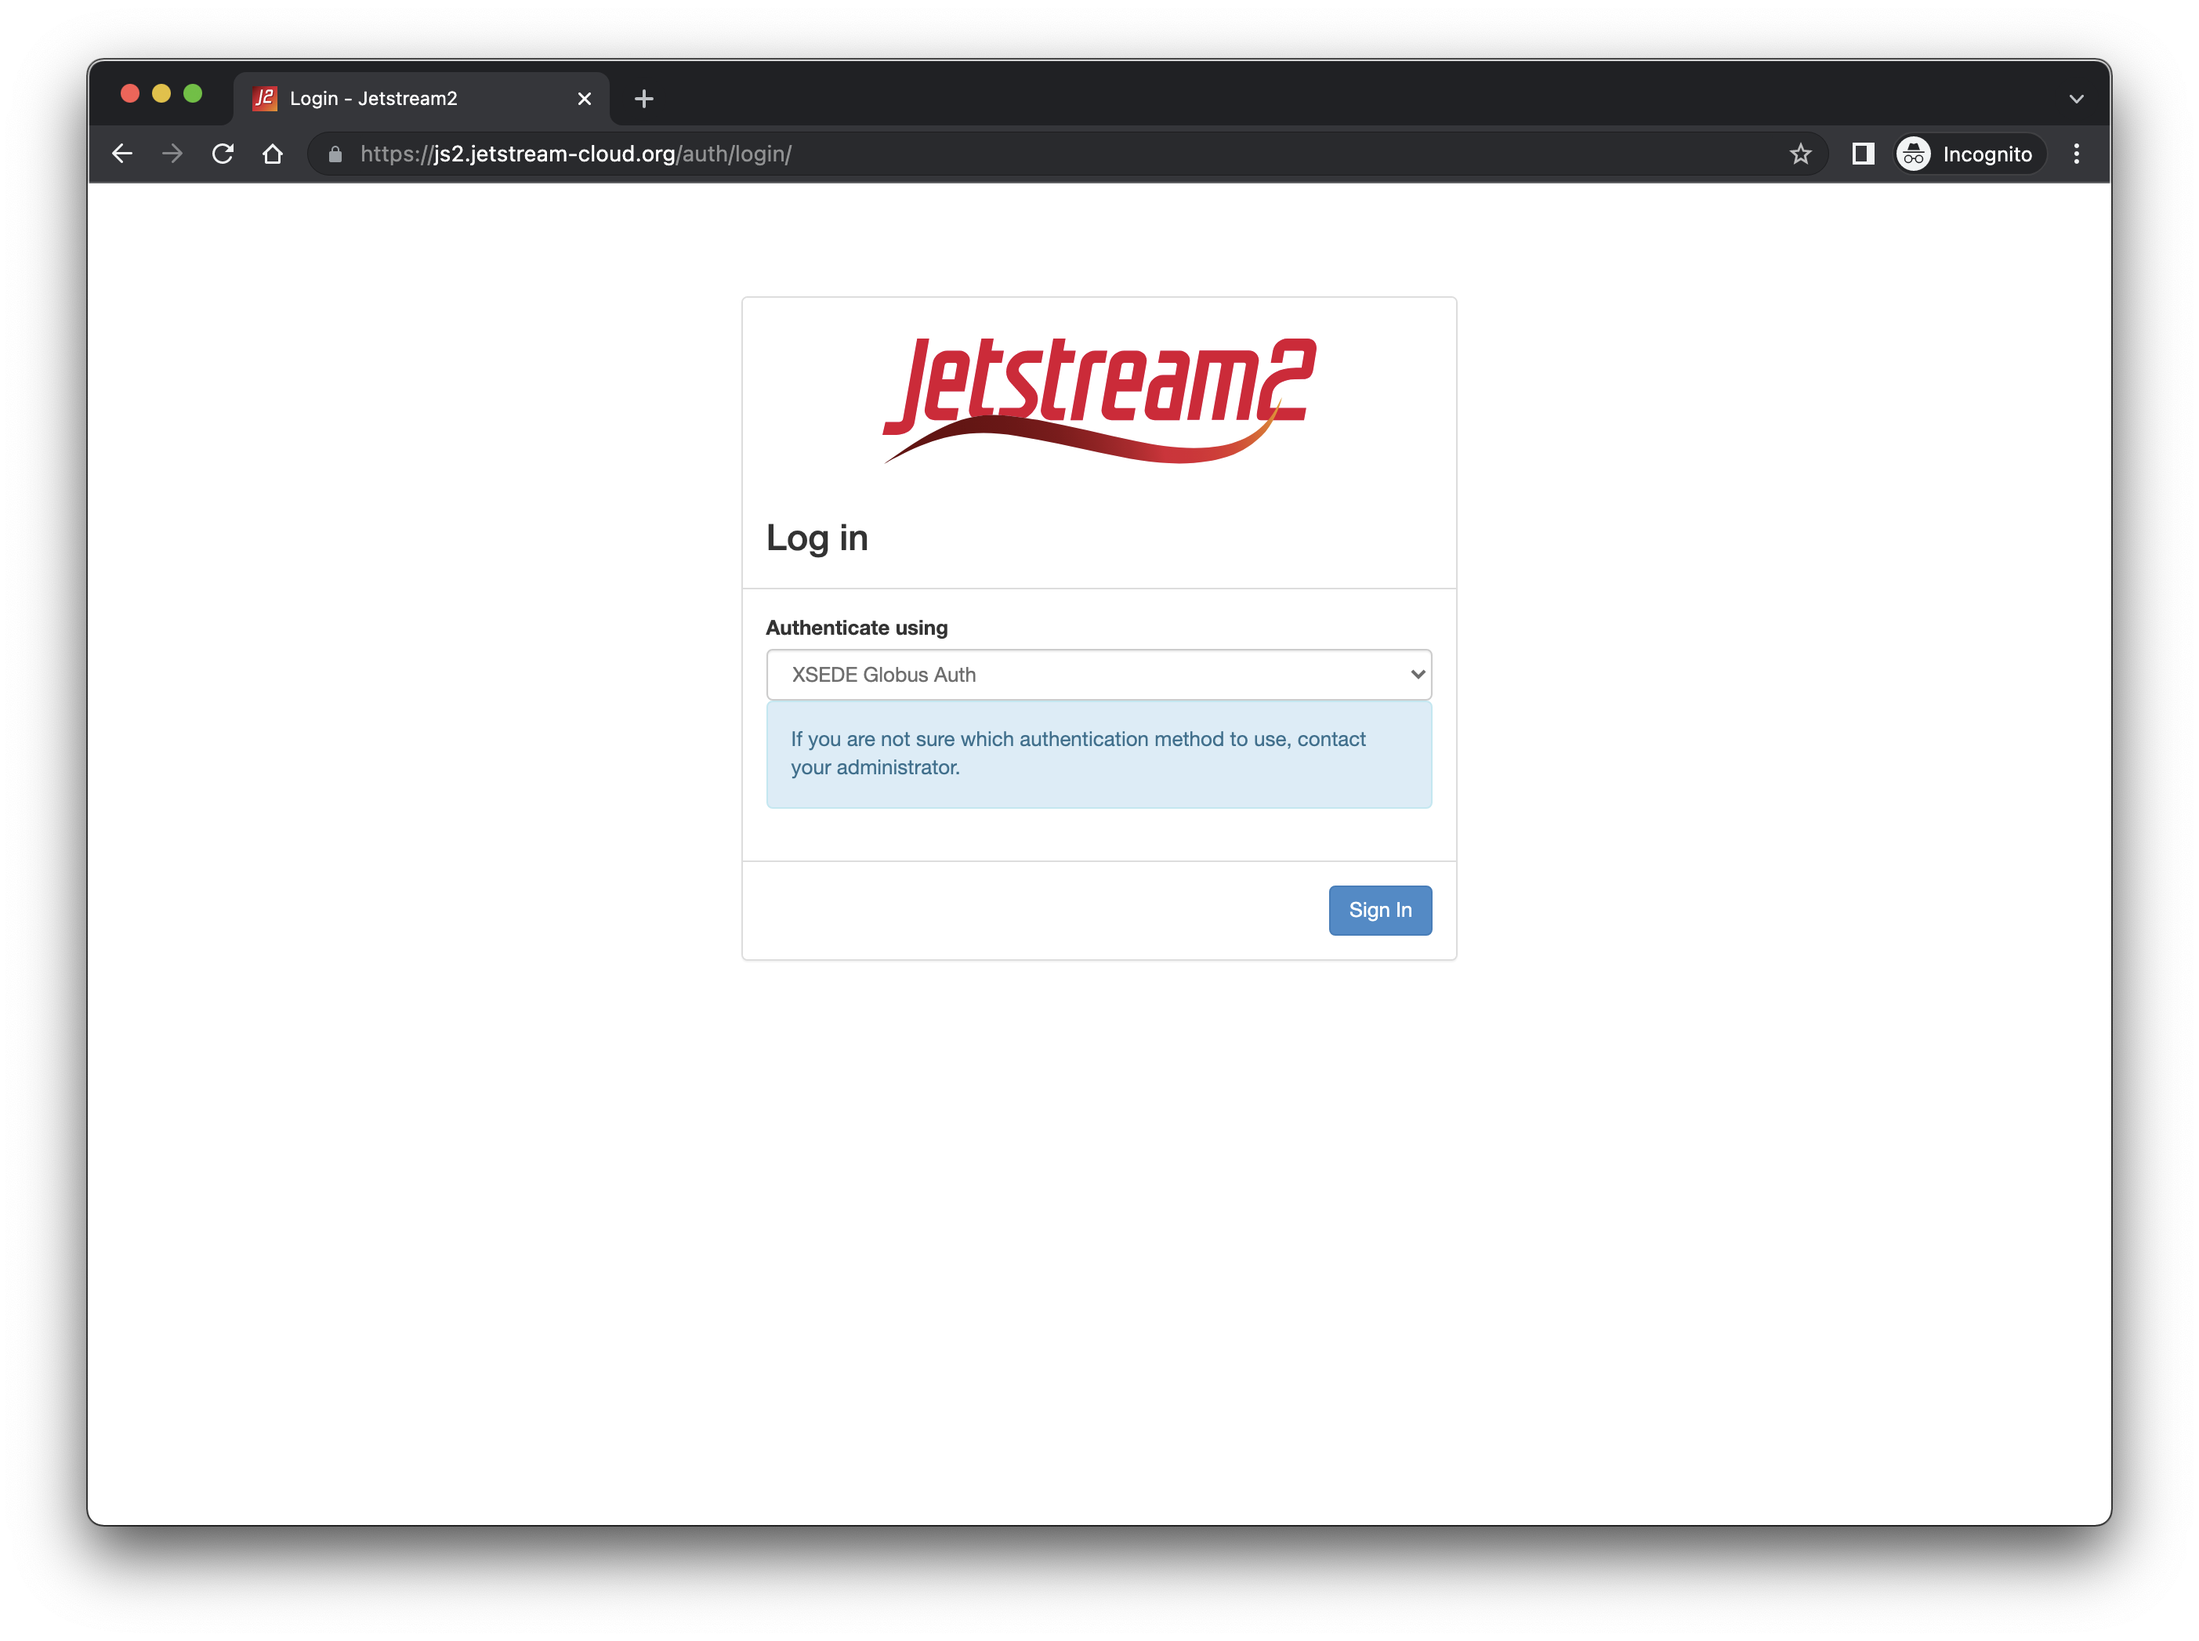
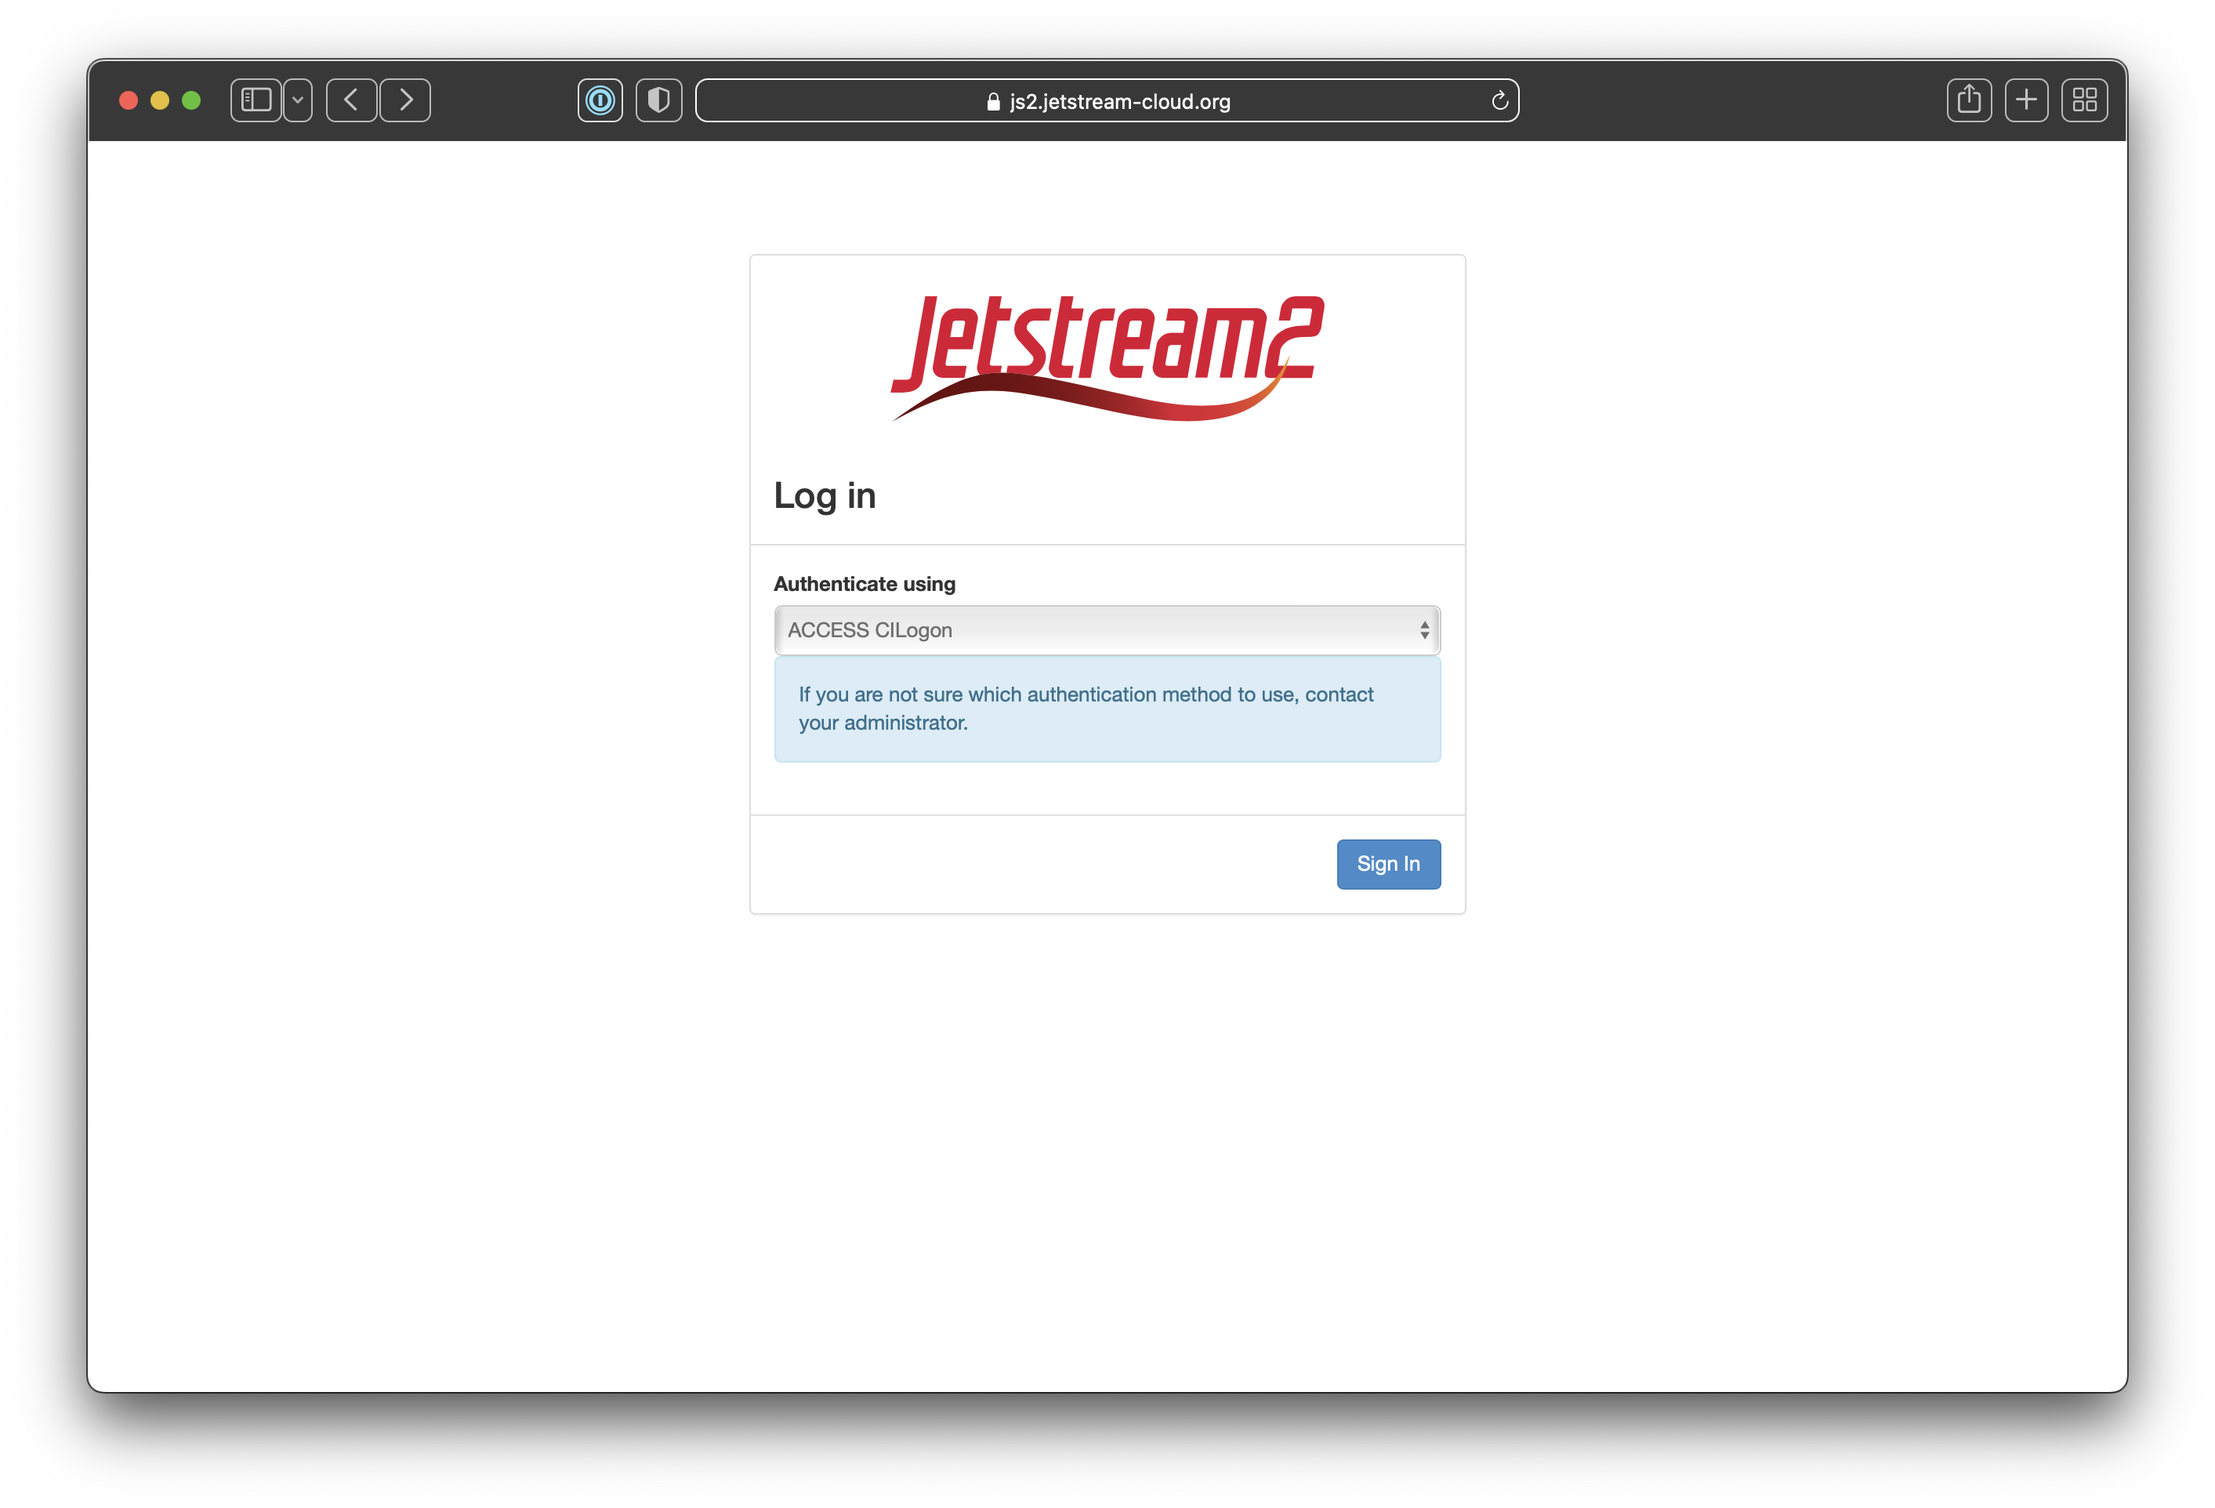
Updating Horizon login for ACCESS

diff --git a/docs/ui/horizon/intro.md b/docs/ui/horizon/intro.md
@@ -13,38 +13,44 @@ That said, there are times you may need the more complete features of Horizon in
 1. **Navigate**
 
 * Navigate to [https://js2.jetstream-cloud.org](https://js2.jetstream-cloud.org)</br>
-Make sure it says "XSEDE Globus Auth" in the Authenticate Using box.
+Make sure it says "ACCESS CILogin" in the Authenticate Using box.
 
 </br></br></br></br></br></br></br></br></br></br></br></br>
 
 ---
 
-![](/images/JS2-Globus-Screen.png){ align=right ; width=50% }
+![](/images/JS2-CILogin-Screen.png){ align=right ; width=50% }
 
-2. **Globus Authentication**
+2. **CILogin Authentication**
 
-* The first time you log in you'll be directed to a Globus page to permit authorization.</br></br>
-If you have linked institutional, Google, Orcid, or other credentials, you'll be able to use those to authenticate.<p> We know XSEDE credentials work correctly so we will show that in our example.
+* The first time you log in you'll be directed to a CILogin page to permit authorization.</br></br>
+If you have linked institutional, Google, Orcid, or other credentials, you'll be able to use those to authenticate. <p>
+
+!!! note "Other intstitution credentials"
+
+     Please note that other CILogin credentials (i.e. for your home institution or Google) must be set up outside of this process. Instructions for that will hopefully be available from ACCESS soon. We will link them here when available.
+
+We know ACCESS credentials work correctly so we will show that in our example.
 
 </br></br></br></br></br></br></br></br></br>
 
 ---
 
-![](/images/JS2-XSEDE-Auth-Screen.png){ align=right ; width=50% }
+![](/images/JS2-CILogin-Auth-Screen.png){ align=right ; width=50% }
 
-3. **XSEDE credentials**
+3. **ACCESS credentials**
 
-* The next page should be the login screen for your credentials. We're showing the XSEDE login screen as our example.
+* The next page should be the login screen for your credentials. We're showing the ACCESS login screen as our example.
 
 </br></br></br></br></br></br></br></br></br></br></br></br>
 
 ---
 
-![](/images/JS2-XSEDE-Duo-Screen.png){ align=right ; width=50% }
+![](/images/JS2-Access-Duo-Screen.png){ align=right ; width=50% }
 
 4. **Multi Factor Authentication**
 
-* If you're using multi-factor authentication with your credentials as XSEDE does, you'll likely get a Duo or an Authenticator screen here.
+* If you're using multi-factor authentication with your credentials as ACCESS does, you'll likely get a Duo or an Authenticator screen here.
 
 </br></br></br></br></br></br></br></br></br></br></br></br>
 
@@ -64,7 +70,7 @@ If you have linked institutional, Google, Orcid, or other credentials, you'll be
 
 6. **Project**
 
-* If you are on multiple XSEDE allocations, you'll want to verify you're using the correct one and change to the correct one if you are not. </br></br>You do that by clicking at the top left next to the Jetstream2 logo where it has `XSEDE * AAA000000 * IU`. That will show allocations under "Projects".
+* If you are on multiple ACCESS allocations, you'll want to verify you're using the correct one and change to the correct one if you are not. </br></br>You do that by clicking at the top left next to the Jetstream2 logo where it has `ACCESS * AAA000000 * IU`. That will show allocations under "Projects".
 
 </br></br></br></br></br></br></br></br></br></br>
 
